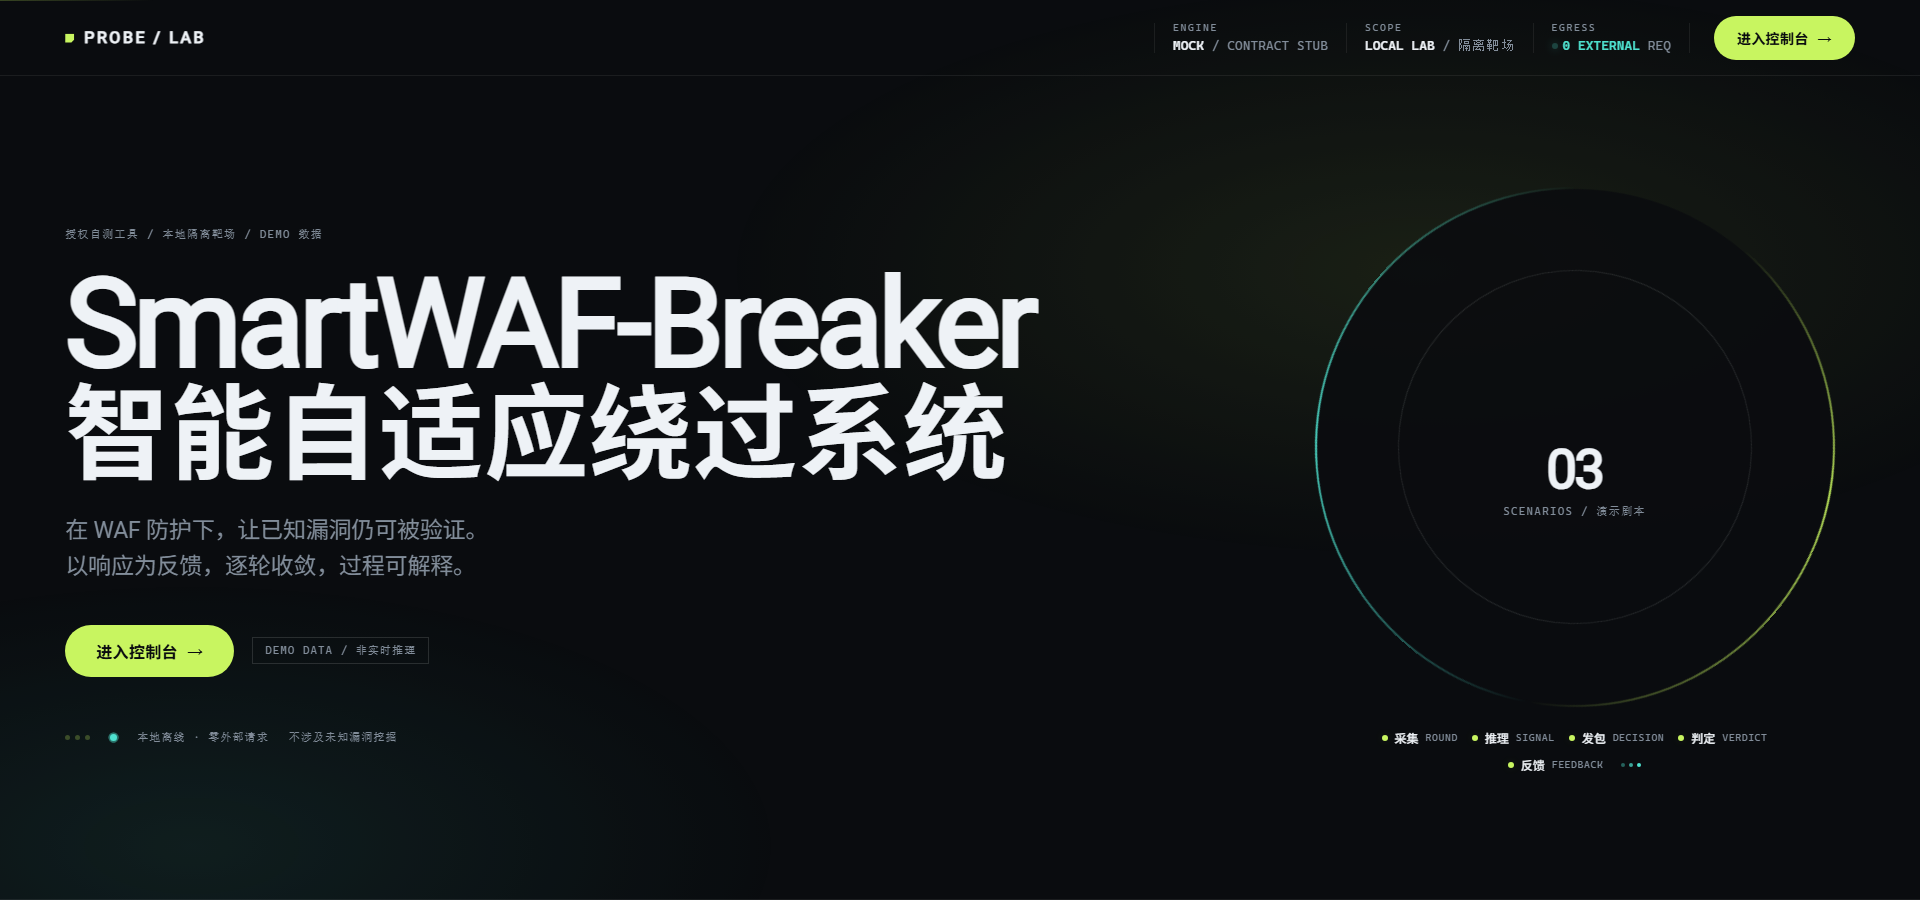
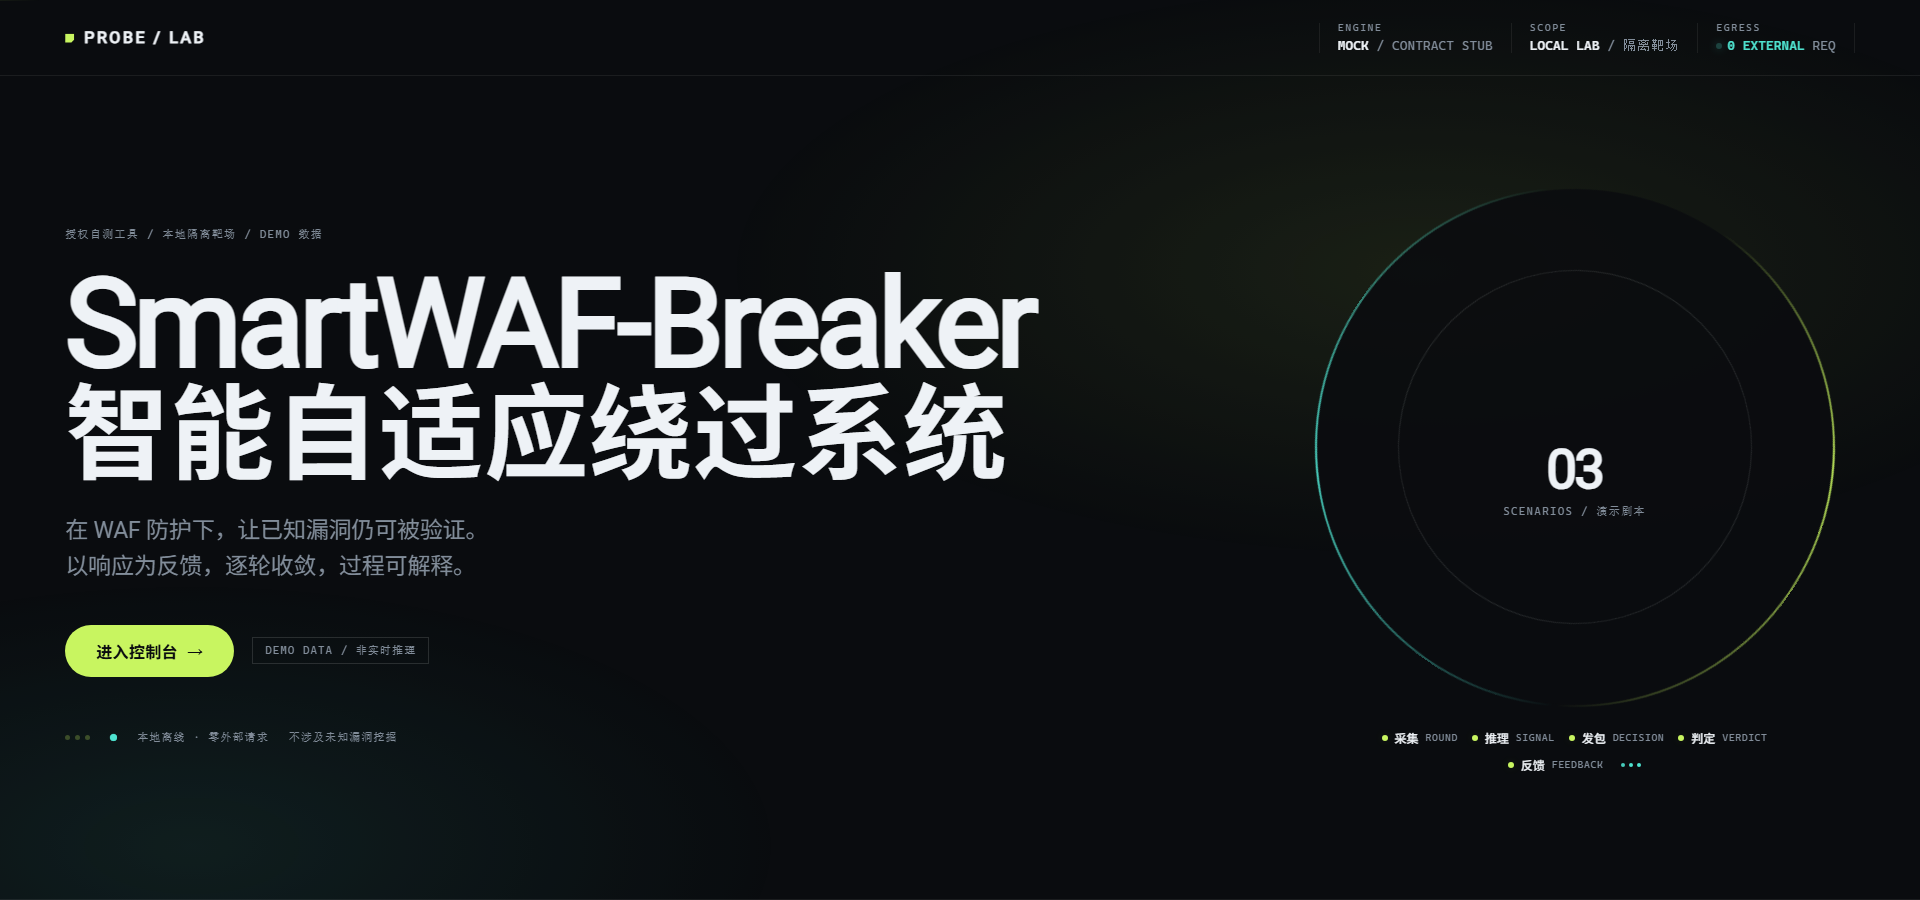
refactor(index): 移除顶栏「进入控制台」按钮，跨页入口统一收敛到 Hero 主按钮

Changed region(s): [[0.5938, 0.0, 0.9688, 0.0933]]

diff --git a/webapp/css/index.css b/webapp/css/index.css
@@ -174,11 +174,6 @@
         transform: none;
         box-shadow: none;
       }
-      .btn--sm {
-        min-height: 44px;
-        padding: 0 22px;
-        font-size: 14px;
-      }
       [aria-busy="true"] {
         pointer-events: none;
       }
@@ -300,9 +295,6 @@
         box-shadow: 0 0 8px var(--accent-2);
         animation: dotFlash 2s var(--ease) infinite;
         vertical-align: 1px;
-      }
-      .site-head > .btn {
-        flex: none;
       }
 
       /* ---------- ② 全屏非对称 Hero ---------- */
@@ -1101,9 +1093,6 @@
         }
         .telemetry dd {
           font-size: 10px;
-        }
-        .site-head > .btn {
-          margin-left: auto;
         }
         .hero {
           min-height: auto;

diff --git a/webapp/index.html b/webapp/index.html
@@ -57,15 +57,6 @@
             <dd><i class="telemetry__dot" aria-hidden="true"></i>0 EXTERNAL<span class="telemetry__dim"> REQ</span></dd>
           </div>
         </dl>
-
-        <a
-          class="btn btn--primary btn--sm"
-          href="console.html"
-          data-nav
-          data-ripple
-        >
-          进入控制台 <span aria-hidden="true">→</span>
-        </a>
       </header>
 
       <main>

diff --git a/docs/03-演示交付说明.md b/docs/03-演示交付说明.md
@@ -17,9 +17,9 @@
 
 | 文件 | 行数 | 字节 | 角色 | 演示入口 |
 |---|---|---|---|---|
-| `webapp/index.html` | 252 | 11509 | 主页 HTML 壳（外链下方 css/js；仅保留 head 防闪烁内联脚本） | ✅ 第一个打开 |
+| `webapp/index.html` | 243 | 11289 | 主页 HTML 壳（外链下方 css/js；仅保留 head 防闪烁内联脚本） | ✅ 第一个打开 |
 | `webapp/console.html` | 231 | 13965 | 功能页 HTML 壳（外链下方 css/js；仅保留 head 防闪烁内联脚本） | ✅ 从主页「进入控制台」进入；右上角「← 主页」返回 |
-| `webapp/css/index.css` | 1192 | 33344 | 主页样式（设计 token + 落地页组件 + 顶栏状态母线，详见 §16） | — |
+| `webapp/css/index.css` | 1181 | 33111 | 主页样式（设计 token + 落地页组件 + 顶栏状态母线，详见 §16） | — |
 | `webapp/css/console.css` | 398 | 29181 | 功能页样式（赛博监测台 DASHBOARD · 科技感重设计，详见 §15） | — |
 | `webapp/css/core.css` | 94 | 2155 | 共享样式：跨页过渡遮罩（.pt）+ 按钮涟漪（.ripple），两页共用同一份 | — |
 | `webapp/js/index.js` | 153 | 5670 | 主页脚本（入场 / 光标 / 已注释区块的防御性判空绑定） | — |
@@ -300,7 +300,7 @@
 
 为提升可维护性，将两页的**内联 `<style>` 与 `<script>` 全部外置**，并按 HTML / CSS / JS 分层：
 
-- `webapp/index.html`（252 行）+ `css/index.css` + `js/index.js`
+- `webapp/index.html`（243 行）+ `css/index.css` + `js/index.js`
 - `webapp/console.html`（231 行）+ `css/console.css` + `js/console.js`
 - `js/core.js`：两页共有的"跨页圆形揭幕过渡 + 按钮涟漪"逻辑收敛为单份，消除重复
 - head 防闪烁脚本（读 `sessionStorage('pt-nav')`）须早于首帧执行，保留为 `<head>` 内联；外置脚本统一 `defer`
@@ -410,15 +410,43 @@
 | JS 语法 | `index.js` / `core.js` 均 `node --check` 通过 |
 | 单元测试 | **76 / 76 通过**，失败 0 |
 | 控制台异常 | `--enable-logging=stderr` + CDP `Runtime.exceptionThrown`：**0 条** |
-| 1920 / 1440 / 390 | 三段读数完整、品牌与按钮齐全、无溢出无重叠（CDP 实测 `over: []`、`docScrollW == vw`） |
+| 1920 / 1440 / 390 | 三段读数完整、品牌与 Hero 主按钮齐全、无溢出无重叠（CDP 实测 `over: []`、`docScrollW == vw`） |
 | 死链残留 | `href="#chains/#brands/#access"` 0 处 |
 
 > 注：`--window-size=390` 的 headless 截图会出现内容被裁的**假象**；用 CDP
-> `Emulation.setDeviceMetricsOverride` 固定视口后复测，顶栏三段与按钮均完整可见。
+> `Emulation.setDeviceMetricsOverride` 固定视口后复测，顶栏三段读数均完整可见。
 
 ### 16.5 设计自检（frontend-design 反 AI 味清单）
 
 单一方向（工业仪表台）；新增内容沿用站点既有 `--display` / `--mono` 工程字栈，离线零 webfont；
 主色深墨 60% / 表面 30% / 酸柠强调仅 10%，青色仅用于 `EGRESS = 0` 正向状态；
 存在氛围层（全幅扫描母线 + 发丝线矩阵）；`prefers-reduced-motion` 全动效降级；
-顶栏仅保留「进入控制台」一个交互，点击目标 44px、`:focus-visible` 沿用站点描边。
+顶栏为**纯只读展示**（仅品牌可点），跨页入口统一收敛到 Hero 主按钮，点击目标 44px、`:focus-visible` 沿用站点描边。
+
+## 17. 移除顶栏「进入控制台」按钮（2026-11-09 晚）
+
+> 用户指令：「顶栏导航 · 进入控制台按钮删掉」。
+
+### 17.1 改动范围
+
+- `webapp/index.html`：删除顶栏右侧 `.btn.btn--primary.btn--sm`「进入控制台 →」按钮。
+  **Hero 区的 `.hero-actions` 主按钮保留**（`data-nav` / `data-ripple` 与跨页圆形揭幕过渡照常工作），
+  L206 那条位于已注释 CTA 区块内，非生效 UI，不动。
+- `webapp/css/index.css`：连带删除 3 处失效规则 —— `.btn--sm`（删除后无人使用）、
+  `.site-head > .btn { flex: none }`、以及 `@media (max-width:700px)` 里的
+  `.site-head > .btn { margin-left: auto }`。
+- 删除后 `.telemetry` 的 `margin-left:auto` 自然把状态母线推到顶栏右端，右侧不再留空按钮位；
+  移动端第一行为品牌独占、第二行仍为三段等分读数。
+
+### 17.2 验证（Chrome 156 headless + CDP 严格视口）
+
+| 项 | 结果 |
+|---|---|
+| 残留引用 | `btn--sm` / `site-head > .btn` 在 `webapp/` 下 **0 处** |
+| 顶栏按钮数 / Hero 按钮数 | CDP 实测 `headBtns: 0`、`heroBtns: 1`（三档一致） |
+| CSS 大括号 | 205 / 205 配平 |
+| 单元测试 | **76 / 76**，失败 0；`index.js` `node --check` 通过 |
+| 1920 / 1440 / 390 | 三段读数完整、靠右对齐，无溢出（`over: 0`、`scrollW == vw`）、JS 异常 0 条 |
+| 边框核查 | CDP 读计算样式：`.telemetry` 仅 `border-left:1px`、cell 仅 `border-right:1px`，无 outline / box-shadow —— 放大图中的"矩形框"是竖线与顶栏上下发丝线叠加的错觉，非回归 |
+
+`docs/screenshots/主页-1920-SmartWAF-Breaker.png` 已同步更新为无顶栏按钮版本。
